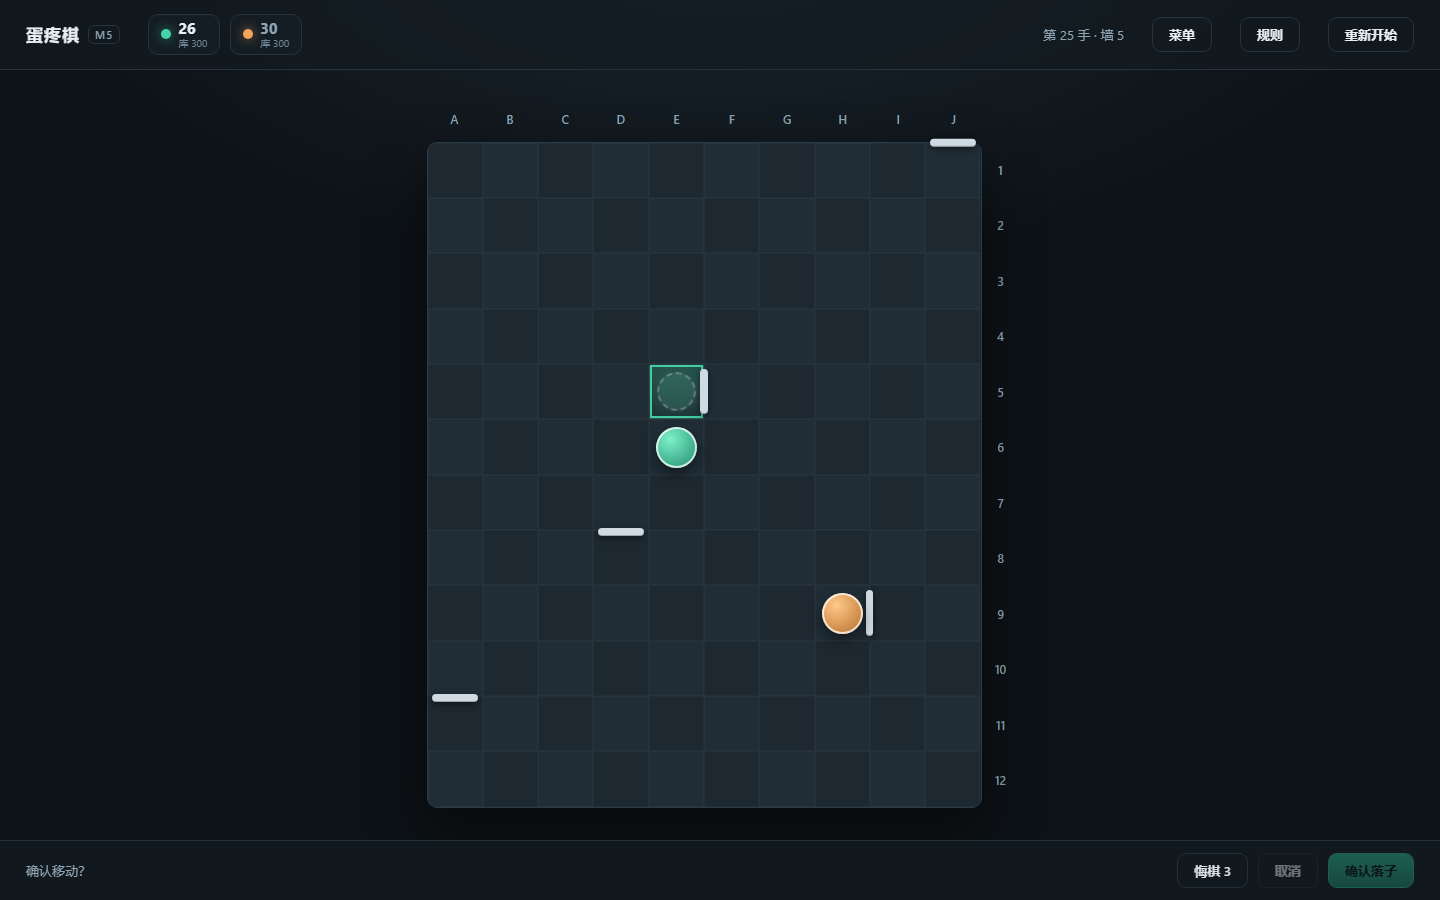
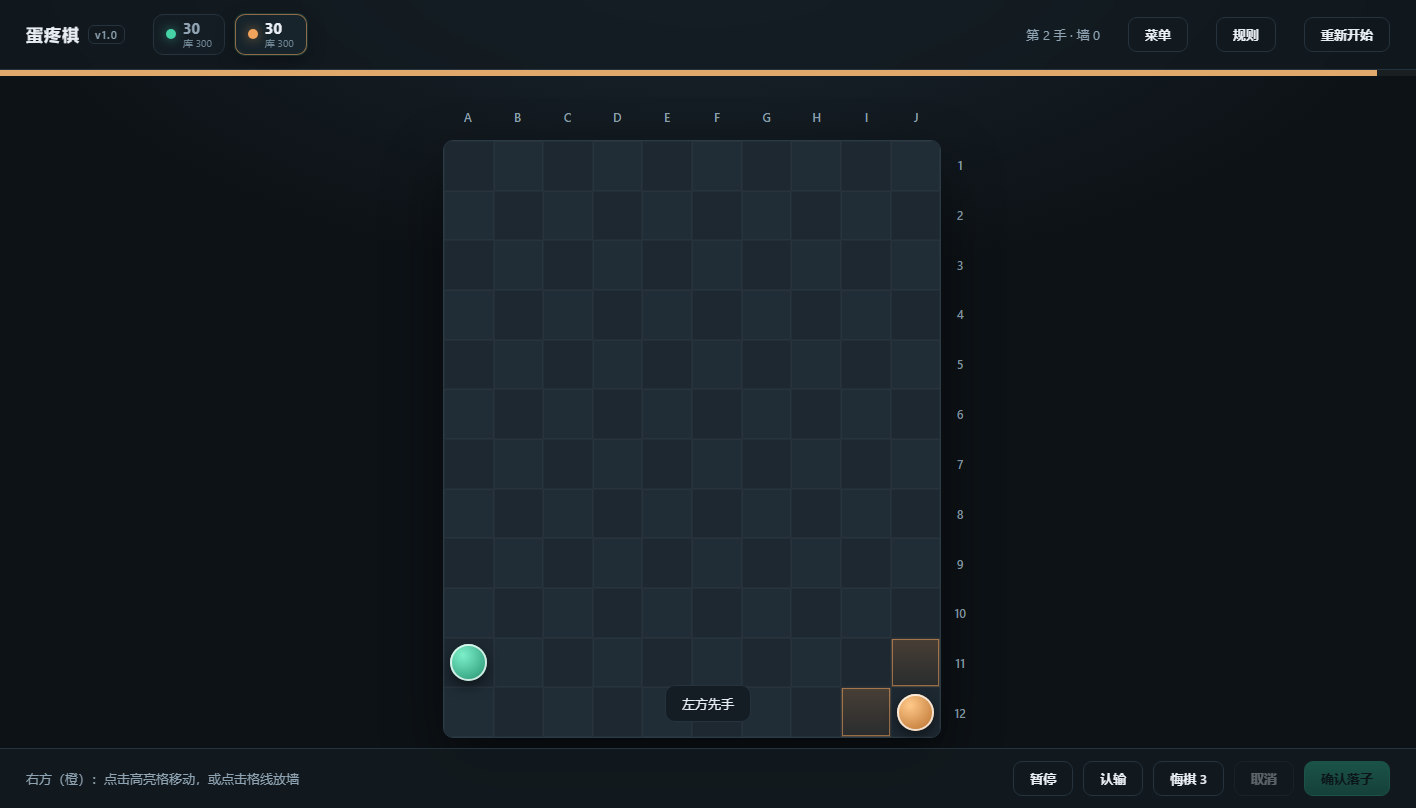
README：更新主菜单/难度/对局截图，补充实验档与P0评测说明

diff --git a/README.md b/README.md
@@ -3,11 +3,15 @@
 10 × 12 的两人棋：先越过终点线者胜。但**你到达时如果对手下一手也能到，就判平局**——
 光跑没用，必须用墙把对手拖慢两步以上。这也是它“蛋疼”的地方。
 
-![主菜单](docs/screenshots/home.png)
+| 主菜单 | 人机难度 | 对局 |
+|---|---|---|
+| ![主菜单](docs/screenshots/home.png) | ![人机难度](docs/screenshots/levels.png) | ![对局](docs/screenshots/preview.png) |
 
 ## 现在怎么玩
 
 **在线版（推荐）**：打开部署好的网址 →「联机对战」→ 建房/加入，或直接打人机、同屏。
+
+当前演示服：<http://39.105.89.152:6657/>（朋友间自建，非公共服）
 
 ```bash
 # 服务器上一键部署（详见 deploy/README.md）
@@ -44,7 +48,7 @@ sudo bash deploy/install.sh
 | 玩法 | 说明 |
 |---|---|
 | 同屏双人 | 一台设备轮流操作 |
-| 人机对战 | 简单 / 普通 / 困难 / 大师 / 宗师 / 地狱，可选「超时代走 / 不限时」 |
+| 人机对战 | 简单 / 普通 / 困难 / 大师 / 宗师 / 地狱 / 实验（实验中），可选「超时代走 / 不限时」 |
 | 联机 · 回合制 | 房间码，服务器权威判定 |
 | 联机 · 同时行动 | 房间码，双方每回合同时提交，服务器结算 |
 
@@ -98,11 +102,21 @@ cd server && node --test          # 服务端单测
 node tools/ladder-check.mjs       # AI 难度阶梯
 ```
 
+地狱难度的配对评测（P0 口径：固定 6 手开局、双座位、28s/3s、结果与未完成分离）：
+
+```bash
+node tools/p0/run.mjs --count 10 --start-id 0 --end-id 9 \
+  --hell-ms 28000 --gm-ms 3000 --route-walls 3 --label A0
+node tools/p0/summarize.mjs _extract/p0/runs/<runId>/03_games_raw_A0.jsonl
+```
+
+评测数据写入 `_extract/`（已 gitignore），不进入仓库。
+
 ## 测试与数据
 
 | 项 | 结果 |
 |---|---|
-| 内核单测 | 78 项 |
+| 内核单测 | 89 项 |
 | 界面自检（打包产物） | 71 项 |
 | 服务端单测（回合制 + 异步） | 21 项 |
 | 回合制联机端到端 | 21 项 |
@@ -118,10 +132,12 @@ node tools/ladder-check.mjs       # AI 难度阶梯
 | 困难 | 四层迭代加深 + 结构评估 | 350ms |
 | 大师 | 六层迭代加深 + 结构评估 + 锁路计划 + 无效墙过滤 + 防来回 | 1200ms |
 | 宗师 | 大师计划 + 计划走动/回退 + 必经路保护 + 更深收官 | 3000ms |
-| 地狱 | 宗师的长预算版 | 最多 28s |
+| 地狱 | 宗师 + 砍路墙（routeWalls=3）+ 智能出口；整次决策限时 | 最多 28s |
+| 实验（实验中） | 强化学习 CNN 策略，棋力很弱，仅供体验 | 即时 |
 
 困难及以上在 Web Worker 中计算，思考期间界面不卡、计时正常走。
-`tools/ladder-check.mjs` 让每档对「简单」跑若干局，要求胜率随档位单调上升。
+「实验（实验中）」是训练得到的强化学习策略，不是搜索 AI，强度明显低于其他档位。
+`tools/ladder-check.mjs` 让每档对「简单」跑若干局，要求胜率随档位单调上升（不含实验档）。
 
 ## 目录结构
 
